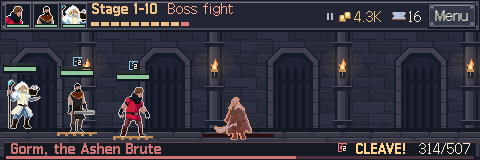
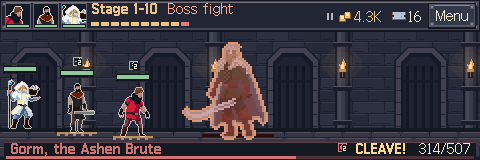
Render bosses at their configured scale behind the HUD rail

Changed region(s): [[0.375, 0.25, 0.5625, 0.875], [0.9062, 0.0625, 1.0, 0.125]]

diff --git a/src/atlas.ts b/src/atlas.ts
@@ -8,7 +8,7 @@ const assetSchema = z.object({ key: z.string(), path: z.string(), outlined: z.st
 const manifestSchema = z.object({ heroes: z.array(assetSchema), enemies: z.array(assetSchema) });
 type Atlas = z.infer<typeof atlasSchema>;
 export type AnimationName = 'idle' | 'run' | 'attack' | 'cast' | 'hit' | 'death';
-interface LoadedAtlas { atlas: Atlas; image: HTMLImageElement; white: HTMLCanvasElement; inkTop: number; inkBottom: number }
+interface LoadedAtlas { atlas: Atlas; image: HTMLImageElement; white: HTMLCanvasElement }
 async function json(url: URL): Promise<unknown> {
   const response = await fetch(url);
   if (!response.ok) throw new Error(`${url.pathname}: ${response.status}`);
@@ -42,11 +42,7 @@ export class AtlasLibrary {
           tint.imageSmoothingEnabled = false; tint.drawImage(image, 0, 0);
           tint.globalCompositeOperation = 'source-atop'; tint.fillStyle = CONFIG.view.hitFlashColor; tint.fillRect(0, 0, white.width, white.height);
           tint.globalCompositeOperation = 'source-over';
-          const frames = atlas.frames;
-          this.loaded.set(asset.key, { atlas, image, white,
-            inkTop: Math.min(...frames.map(f => f.outlinedContentBounds[1])),
-            inkBottom: Math.max(...frames.map(f => f.outlinedContentBounds[3])),
-          });
+          this.loaded.set(asset.key, { atlas, image, white });
         } catch (error) { this.errors.push(`${asset.key}: ${String(error)}`); }
       }));
     } catch (error) { this.errors.push(`manifest: ${String(error)}`); }
@@ -132,12 +128,10 @@ export class AtlasLibrary {
     if (!frame) return false;
     const source = flash ? loaded.white : image;
     const pad = outline ? 1 : 0;
-    // Bosses use a single scale and foot anchor across their entire animation set.
-    // A particularly tall atlas gets a nearest-neighbor compact raster before screen zoom.
     let scale = zoom;
     if (lane) {
-      const top = (outline ? loaded.inkTop : frame.outlinedContentBounds[1]) - atlas.anchor.y - pad;
-      const bottom = (outline ? loaded.inkBottom : frame.outlinedContentBounds[3]) - atlas.anchor.y + pad;
+      const top = frame.outlinedContentBounds[1] - atlas.anchor.y - pad;
+      const bottom = frame.outlinedContentBounds[3] - atlas.anchor.y + pad;
       const fit = (lane.bottom - lane.top) / Math.max(1, bottom - top);
       scale = Math.min(scale, fit >= 1 ? Math.floor(fit) : fit);
       baseline = Math.min(lane.bottom - Math.round(bottom * scale), Math.max(baseline, lane.top - Math.round(top * scale)));

diff --git a/src/renderer.ts b/src/renderer.ts
@@ -349,7 +349,9 @@ export class Renderer {
       const tint = isLaneBoss ? enemyDef?.tint : undefined;
       const warning = isLaneBoss && bossBar && (bossBar.enraged || bossBar.telegraph);
       const outline = warning ? (!still && state.tick % 12 < 4 ? '#ffcf82' : '#e69668') : isLaneBoss ? enemyDef?.outline : undefined;
-      if (!key || !this.atlases.draw(ctx, key, anim.name, anim.ageMs, x, unitBaseline, flip, bossScale, flash, tint, outline, arena)) {
+      // Boss art can extend behind the HUD rail at its configured scale.
+      const lane = unit.boss ? undefined : arena;
+      if (!key || !this.atlases.draw(ctx, key, anim.name, anim.ageMs, x, unitBaseline, flip, bossScale, flash, tint, outline, lane)) {
         const w = unit.boss ? view.bossWidth * bossScale : view.heroWidth, h = unit.boss ? view.bossHeight * bossScale : view.heroHeight;
         ctx.fillStyle = unit.hp <= 0 ? '#52616b' : (enemyDef?.tint ?? color);
         ctx.fillRect(x - w / 2, unitBaseline - h, w, h);
